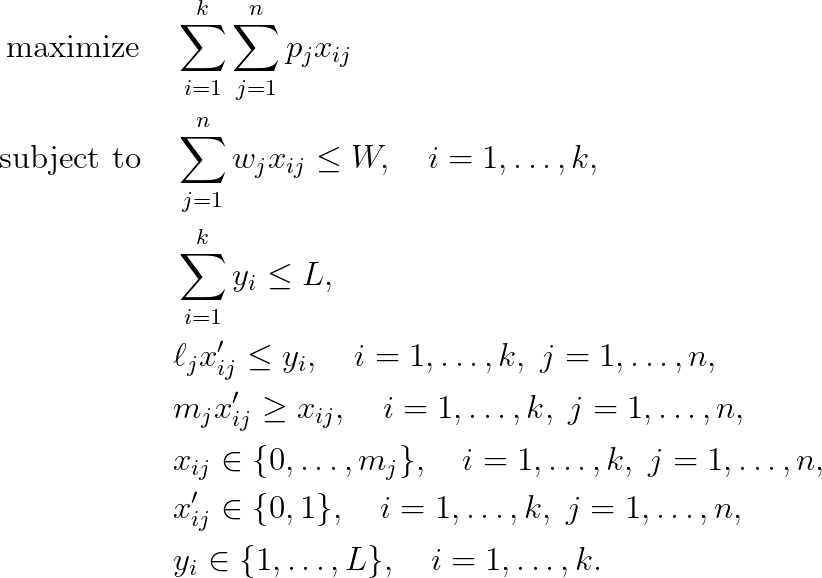
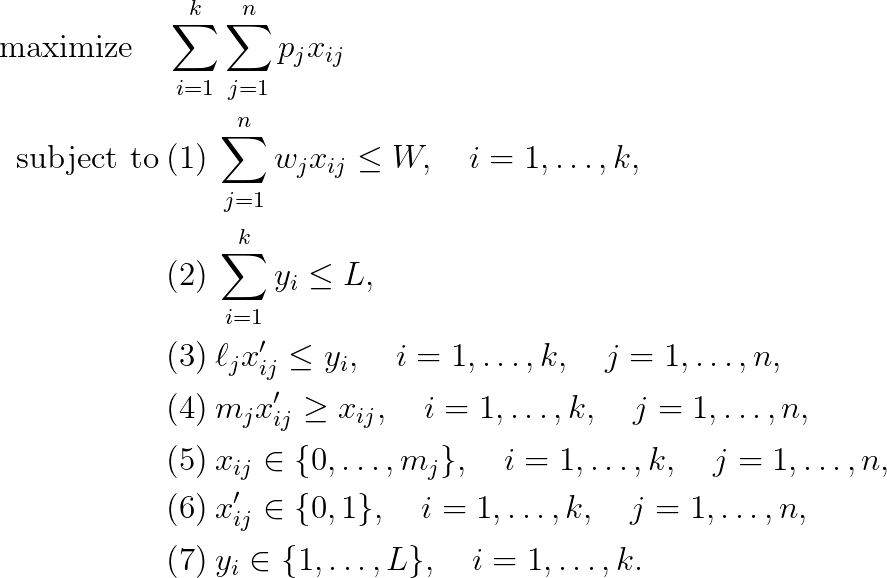
Create problem 12-two-dimensional-two-stage-cutting-problem

diff --git a/12-two-dimensional-two-stage-cutting-problem/problem.tex b/12-two-dimensional-two-stage-cutting-problem/problem.tex
@@ -1,10 +1,10 @@
 \begin{align}
 \text{maximize} \quad & \sum_{i=1}^k \sum_{j = 1}^n p_{j} x_{ij} \\
-\text{subject to} \quad & \sum_{j=1}^n w_{j} x_{ij} \leq W, \quad i = 1, \ldots, k, \\
-& \sum_{i=1}^k y_i \leq L, \\
-& \ell_j x_{ij}' \leq y_i, \quad i = 1, \ldots, k, \; j = 1, \ldots, n, \\
-& m_j x_{ij}' \geq x_{ij}, \quad i = 1, \ldots, k, \; j = 1, \ldots, n, \\
-& x_{ij} \in \lbrace 0, \ldots, m_j \rbrace , \quad i = 1, \ldots, k, \; j = 1, \ldots, n, \\
-& x_{ij}' \in \lbrace 0, 1 \rbrace , \quad i = 1, \ldots, k, \; j = 1, \ldots, n, \\
-& y_i \in \lbrace 1, \ldots, L \rbrace , \quad i = 1, \ldots, k.
+\text{subject to} \: & \text{(1)} \: \sum_{j=1}^n w_{j} x_{ij} \leq W, \quad i = 1, \ldots, k, \\
+& \text{(2)} \: \sum_{i=1}^k y_i \leq L, \\
+& \text{(3)} \: \ell_j x_{ij}' \leq y_i, \quad i = 1, \ldots, k, \quad j = 1, \ldots, n, \\
+& \text{(4)} \: m_j x_{ij}' \geq x_{ij}, \quad i = 1, \ldots, k, \quad j = 1, \ldots, n, \\
+& \text{(5)} \: x_{ij} \in \lbrace 0, \ldots, m_j \rbrace , \quad i = 1, \ldots, k, \quad j = 1, \ldots, n, \\
+& \text{(6)} \: x_{ij}' \in \lbrace 0, 1 \rbrace , \quad i = 1, \ldots, k, \quad j = 1, \ldots, n, \\
+& \text{(7)} \: y_i \in \lbrace 1, \ldots, L \rbrace , \quad i = 1, \ldots, k.
 \end{align} 

diff --git a/12-two-dimensional-two-stage-cutting-problem/README.md b/12-two-dimensional-two-stage-cutting-problem/README.md
@@ -50,15 +50,13 @@ maximum number of pieces of type $j$ which can be cut from the sheet. The intege
 
 ![Mathematical formulation](./problem.png)
 
+Here, the constraints (1) say that no strip may exceed the width of the sheet,
+the constraint (2) ensures that the sum of strip lengths should be within the sheet
+length, while the constraints (3) demand that each item $j$ chosen for strip $i$ should
+have length $\ell_j$ not greater than the length $y_i$ of the strip. The constraint (4) ensures
+that if $x_{ij} > 0$ then $x_{ij}' = 1$.
 
 
-
-
-## Remarks
-
-The problem reflects situations where items belong to a number of owners, and each owner wishes to
-maximize the total profit of his own items in the shared knapsack. The model maximizes
-the minimum level of the profit sum that can be guaranteed to all owners.
 
 
 
